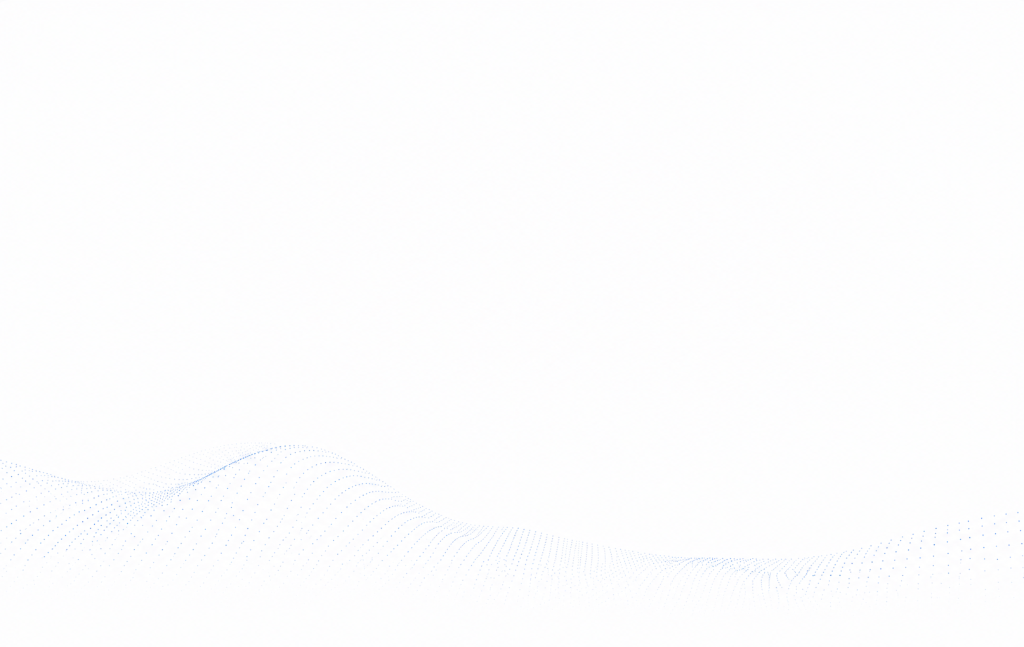
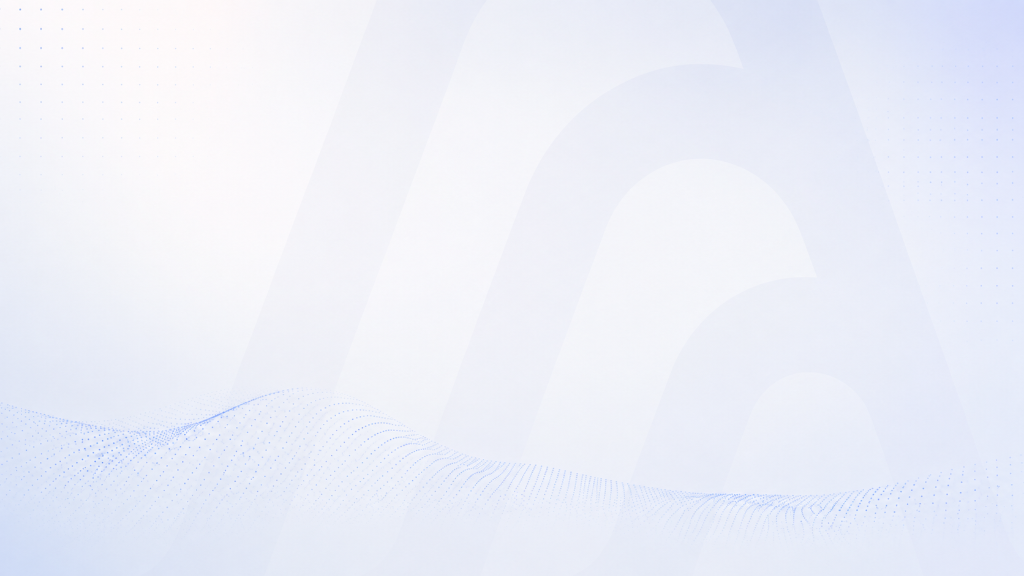
Update light and dark card backgrounds and points font sizing

diff --git a/src/app/page.tsx b/src/app/page.tsx
@@ -476,7 +476,7 @@ export default function Home() {
         await new Promise((resolve, reject) => {
           waveImg.onload = resolve;
           waveImg.onerror = reject;
-          waveImg.src = theme === "light" ? "/brand/wave-light.png" : "/brand/wave-dark.png";
+          waveImg.src = theme === "light" ? "/brand/wave-light.png?v=3" : "/brand/wave-dark.png?v=4";
         });
         ctx.drawImage(waveImg, 0, 0, 1200, 630);
       } catch (e) {
@@ -492,14 +492,16 @@ export default function Home() {
         ctx.stroke();
       }
 
-      // Giant background logo watermark on the right (full height, extending beyond top & bottom borders)
-      ctx.fillStyle = theme === "light" ? "rgba(0, 0, 0, 0.02)" : "rgba(76, 154, 248, 0.035)";
-      ctx.save();
-      ctx.translate(48, -151);
-      ctx.scale(3.424, 3.424);
-      const bgLogoPath = new Path2D("M184.119 0.554062C215.75 0.554062 244.399 20.8274 256.232 50.8548L317.757 216.482C321.032 224.33 328.396 229.367 336.279 229.367H368.808V259.336H336.279C315.948 259.336 297.322 246.119 290.126 226.468L272.766 179.775C269.657 171.499 262.078 166.14 253.947 166.139C245.761 166.139 238.231 171.36 235.139 179.754L235.128 179.775L217.769 226.468C210.573 246.118 191.946 259.335 171.615 259.336H0V229.367H32.1586C40.1273 229.365 47.8672 223.98 50.9671 215.731L111.645 52.2934C123.113 21.4959 151.968 0.555387 184.119 0.554062ZM184.119 30.5229C164.337 30.5242 145.991 43.4339 138.8 63.0094V63.0306L76.9162 229.367H101.797C109.771 229.364 117.52 223.969 120.616 215.71L159.629 110.761V110.74C169.232 85.1888 192.485 68.3622 219.038 68.3622C223.426 68.3625 227.755 68.8635 231.954 69.8114L229.098 62.1314C221.498 43.005 203.562 30.5229 184.119 30.5229ZM218.848 98.5214C204.676 98.5218 192.097 107.306 186.774 121.508L146.554 229.367H171.424C179.4 229.367 187.158 223.971 190.254 215.71L207.603 169.027C214.845 149.573 232.438 136.548 252.667 136.35H253.63C254.577 136.351 255.51 136.385 256.423 136.445L250.911 121.477C245.759 107.65 232.99 98.5224 218.848 98.5214Z");
-      ctx.fill(bgLogoPath);
-      ctx.restore();
+      // Giant background logo watermark on the right for dark theme (full height, extending beyond top & bottom borders)
+      if (theme !== "light") {
+        ctx.fillStyle = "rgba(76, 154, 248, 0.035)";
+        ctx.save();
+        ctx.translate(48, -151);
+        ctx.scale(3.424, 3.424);
+        const bgLogoPath = new Path2D("M184.119 0.554062C215.75 0.554062 244.399 20.8274 256.232 50.8548L317.757 216.482C321.032 224.33 328.396 229.367 336.279 229.367H368.808V259.336H336.279C315.948 259.336 297.322 246.119 290.126 226.468L272.766 179.775C269.657 171.499 262.078 166.14 253.947 166.139C245.761 166.139 238.231 171.36 235.139 179.754L235.128 179.775L217.769 226.468C210.573 246.118 191.946 259.335 171.615 259.336H0V229.367H32.1586C40.1273 229.365 47.8672 223.98 50.9671 215.731L111.645 52.2934C123.113 21.4959 151.968 0.555387 184.119 0.554062ZM184.119 30.5229C164.337 30.5242 145.991 43.4339 138.8 63.0094V63.0306L76.9162 229.367H101.797C109.771 229.364 117.52 223.969 120.616 215.71L159.629 110.761V110.74C169.232 85.1888 192.485 68.3622 219.038 68.3622C223.426 68.3625 227.755 68.8635 231.954 69.8114L229.098 62.1314C221.498 43.005 203.562 30.5229 184.119 30.5229ZM218.848 98.5214C204.676 98.5218 192.097 107.306 186.774 121.508L146.554 229.367H171.424C179.4 229.367 187.158 223.971 190.254 215.71L207.603 169.027C214.845 149.573 232.438 136.548 252.667 136.35H253.63C254.577 136.351 255.51 136.385 256.423 136.445L250.911 121.477C245.759 107.65 232.99 98.5224 218.848 98.5214Z");
+        ctx.fill(bgLogoPath);
+        ctx.restore();
+      }
 
 
 
@@ -592,9 +594,9 @@ export default function Home() {
         ctx.fillText("Your Points", 640, 230);
 
         ctx.fillStyle = "#4C9AF8";
-        ctx.font = `bold 36px ${monoFontFamily}`;
+        ctx.font = `bold 58px ${monoFontFamily}`;
         ctx.shadowColor = "rgba(76, 154, 248, 0.25)";
-        ctx.shadowBlur = 10;
+        ctx.shadowBlur = 12;
         ctx.fillText(formatNumber(parsePositive(userPoints) + twitterExtraPoints), 640, 283);
         ctx.shadowBlur = 0;
 
@@ -675,7 +677,7 @@ export default function Home() {
         ctx.fillText("Your Points", 640, 230);
 
         ctx.fillStyle = "#4C9AF8";
-        ctx.font = `bold 52px ${monoFontFamily}`;
+        ctx.font = `bold 58px ${monoFontFamily}`;
         ctx.shadowColor = "rgba(76, 154, 248, 0.25)";
         ctx.shadowBlur = 12;
         ctx.fillText(formatNumber(parsePositive(userPoints)), 640, 290);
@@ -1218,8 +1220,8 @@ export default function Home() {
 
                 <div className="@container w-full">
                   <div 
-                    className="relative overflow-hidden rounded-xl bg-[#050507] bg-[length:100%_100%] bg-center bg-no-repeat p-[4.33cqw] flex flex-col justify-between aspect-[1200/630] w-full shadow-lg flex-shrink-0"
-                    style={{ backgroundImage: "url('/brand/wave-dark.png')" }}
+                    className="relative overflow-hidden bg-[length:100%_100%] bg-center bg-no-repeat p-[4.33cqw] flex flex-col justify-between aspect-[1200/630] w-full shadow-lg flex-shrink-0"
+                    style={{ backgroundImage: "url('/brand/wave-dark.png?v=4')" }}
                   >
                     {/* Subtle giant background logo icon (extending beyond top & bottom borders) */}
                     <svg className="absolute left-[4%] top-[-50.8%] w-[105%] h-[195%] pointer-events-none text-[#4C9AF8] opacity-[0.035]" viewBox="0 0 368 260" fill="currentColor">
@@ -1265,7 +1267,7 @@ export default function Home() {
                             {/* Your Points */}
                             <div className="flex flex-col">
                               <span className="text-[1.7cqw] font-bold uppercase tracking-wider text-[#64748B]">Your Points</span>
-                              <span className="text-[3.2cqw] font-bold font-mono text-[#4C9AF8] leading-none mt-[0.4cqw] [text-shadow:0_0_10px_rgba(76,154,248,0.25)]">
+                              <span className="text-[4.7cqw] font-bold font-mono text-[#4C9AF8] leading-none mt-[0.4cqw] [text-shadow:0_0_12px_rgba(76,154,248,0.25)]">
                                 {formatNumber(parsePositive(userPoints) + twitterExtraPoints)}
                               </span>
                             </div>
@@ -1278,7 +1280,7 @@ export default function Home() {
                         ) : (
                           <div className="flex flex-col">
                             <span className="text-[1.7cqw] font-bold uppercase tracking-wider text-[#64748B]">Your Points</span>
-                            <span className="text-[4.2cqw] font-bold font-mono text-[#4C9AF8] leading-none mt-[0.4cqw] [text-shadow:0_0_12px_rgba(76,154,248,0.25)]">
+                            <span className="text-[4.7cqw] font-bold font-mono text-[#4C9AF8] leading-none mt-[0.4cqw] [text-shadow:0_0_12px_rgba(76,154,248,0.25)]">
                               {formatNumber(parsePositive(userPoints))}
                             </span>
                           </div>
@@ -1676,12 +1678,14 @@ export default function Home() {
                       ? "bg-slate-50 rounded-2xl border border-zinc-200/80 text-zinc-900"
                       : "bg-transparent rounded-none border-none text-white"
                   }`}
-                  style={{ backgroundImage: shareCardTheme === "light" ? "url('/brand/wave-light.png')" : "url('/brand/wave-dark.png')" }}
+                  style={{ backgroundImage: shareCardTheme === "light" ? "url('/brand/wave-light.png?v=3')" : "url('/brand/wave-dark.png?v=4')" }}
                 >
-                  {/* Subtle giant background logo icon (extending beyond top & bottom borders) */}
-                  <svg className={`absolute left-[4%] top-[-50.8%] w-[105%] h-[195%] pointer-events-none ${shareCardTheme === "light" ? "text-zinc-900 opacity-[0.02]" : "text-[#4C9AF8] opacity-[0.035]"}`} viewBox="0 0 368 260" fill="currentColor">
-                    <path fillRule="evenodd" clipRule="evenodd" d="M184.119 0.554062C215.75 0.554062 244.399 20.8274 256.232 50.8548L317.757 216.482C321.032 224.33 328.396 229.367 336.279 229.367H368.808V259.336H336.279C315.948 259.336 297.322 246.119 290.126 226.468L272.766 179.775C269.657 171.499 262.078 166.14 253.947 166.139C245.761 166.139 238.231 171.36 235.139 179.754L235.128 179.775L217.769 226.468C210.573 246.118 191.946 259.335 171.615 259.336H0V229.367H32.1586C40.1273 229.365 47.8672 223.98 50.9671 215.731L111.645 52.2934C123.113 21.4959 151.968 0.555387 184.119 0.554062ZM184.119 30.5229C164.337 30.5242 145.991 43.4339 138.8 63.0094V63.0306L76.9162 229.367H101.797C109.771 229.364 117.52 223.969 120.616 215.71L159.629 110.761V110.74C169.232 85.1888 192.485 68.3622 219.038 68.3622C223.426 68.3625 227.755 68.8635 231.954 69.8114L229.098 62.1314C221.498 43.005 203.562 30.5229 184.119 30.5229ZM218.848 98.5214C204.676 98.5218 192.097 107.306 186.774 121.508L146.554 229.367H171.424C179.4 229.367 187.158 223.971 190.254 215.71L207.603 169.027C214.845 149.573 232.438 136.548 252.667 136.35H253.63C254.577 136.351 255.51 136.385 256.423 136.445L250.911 121.477C245.759 107.65 232.99 98.5224 218.848 98.5214Z" />
-                  </svg>
+                  {/* Subtle giant background logo icon for dark theme (extending beyond top & bottom borders) */}
+                  {shareCardTheme !== "light" && (
+                    <svg className="absolute left-[4%] top-[-50.8%] w-[105%] h-[195%] pointer-events-none text-[#4C9AF8] opacity-[0.035]" viewBox="0 0 368 260" fill="currentColor">
+                      <path fillRule="evenodd" clipRule="evenodd" d="M184.119 0.554062C215.75 0.554062 244.399 20.8274 256.232 50.8548L317.757 216.482C321.032 224.33 328.396 229.367 336.279 229.367H368.808V259.336H336.279C315.948 259.336 297.322 246.119 290.126 226.468L272.766 179.775C269.657 171.499 262.078 166.14 253.947 166.139C245.761 166.139 238.231 171.36 235.139 179.754L235.128 179.775L217.769 226.468C210.573 246.118 191.946 259.335 171.615 259.336H0V229.367H32.1586C40.1273 229.365 47.8672 223.98 50.9671 215.731L111.645 52.2934C123.113 21.4959 151.968 0.555387 184.119 0.554062ZM184.119 30.5229C164.337 30.5242 145.991 43.4339 138.8 63.0094V63.0306L76.9162 229.367H101.797C109.771 229.364 117.52 223.969 120.616 215.71L159.629 110.761V110.74C169.232 85.1888 192.485 68.3622 219.038 68.3622C223.426 68.3625 227.755 68.8635 231.954 69.8114L229.098 62.1314C221.498 43.005 203.562 30.5229 184.119 30.5229ZM218.848 98.5214C204.676 98.5218 192.097 107.306 186.774 121.508L146.554 229.367H171.424C179.4 229.367 187.158 223.971 190.254 215.71L207.603 169.027C214.845 149.573 232.438 136.548 252.667 136.35H253.63C254.577 136.351 255.51 136.385 256.423 136.445L250.911 121.477C245.759 107.65 232.99 98.5224 218.848 98.5214Z" />
+                    </svg>
+                  )}
 
 
                   {/* Header row */}
@@ -1725,7 +1729,7 @@ export default function Home() {
                           {/* Your Points */}
                           <div className="flex flex-col">
                             <span className={`text-[15px] font-bold uppercase tracking-wider ${shareCardTheme === "light" ? "text-[#94A3B8]" : "text-[#64748B]"}`}>Your Points</span>
-                            <span className={`text-[34px] sm:text-[42px] font-bold font-mono text-[#4C9AF8] mt-[2px] leading-none ${shareCardTheme === "dark" ? "[text-shadow:0_0_10px_rgba(76,154,248,0.25)]" : ""}`}>
+                            <span className={`text-[49px] sm:text-[60px] font-bold font-mono text-[#4C9AF8] mt-[2px] leading-none ${shareCardTheme === "dark" ? "[text-shadow:0_0_12px_rgba(76,154,248,0.25)]" : ""}`}>
                               {formatNumber(parsePositive(userPoints) + twitterExtraPoints)}
                             </span>
                           </div>
@@ -1740,7 +1744,7 @@ export default function Home() {
                       ) : (
                         <div className="flex flex-col">
                           <span className={`text-[15px] font-bold uppercase tracking-wider ${shareCardTheme === "light" ? "text-[#94A3B8]" : "text-[#64748B]"}`}>Your Points</span>
-                          <span className={`text-[44px] sm:text-[54px] font-bold font-mono text-[#4C9AF8] mt-[2px] leading-none ${shareCardTheme === "dark" ? "[text-shadow:0_0_12px_rgba(76,154,248,0.25)]" : ""}`}>
+                          <span className={`text-[49px] sm:text-[60px] font-bold font-mono text-[#4C9AF8] mt-[2px] leading-none ${shareCardTheme === "dark" ? "[text-shadow:0_0_12px_rgba(76,154,248,0.25)]" : ""}`}>
                             {formatNumber(parsePositive(userPoints))}
                           </span>
                         </div>
